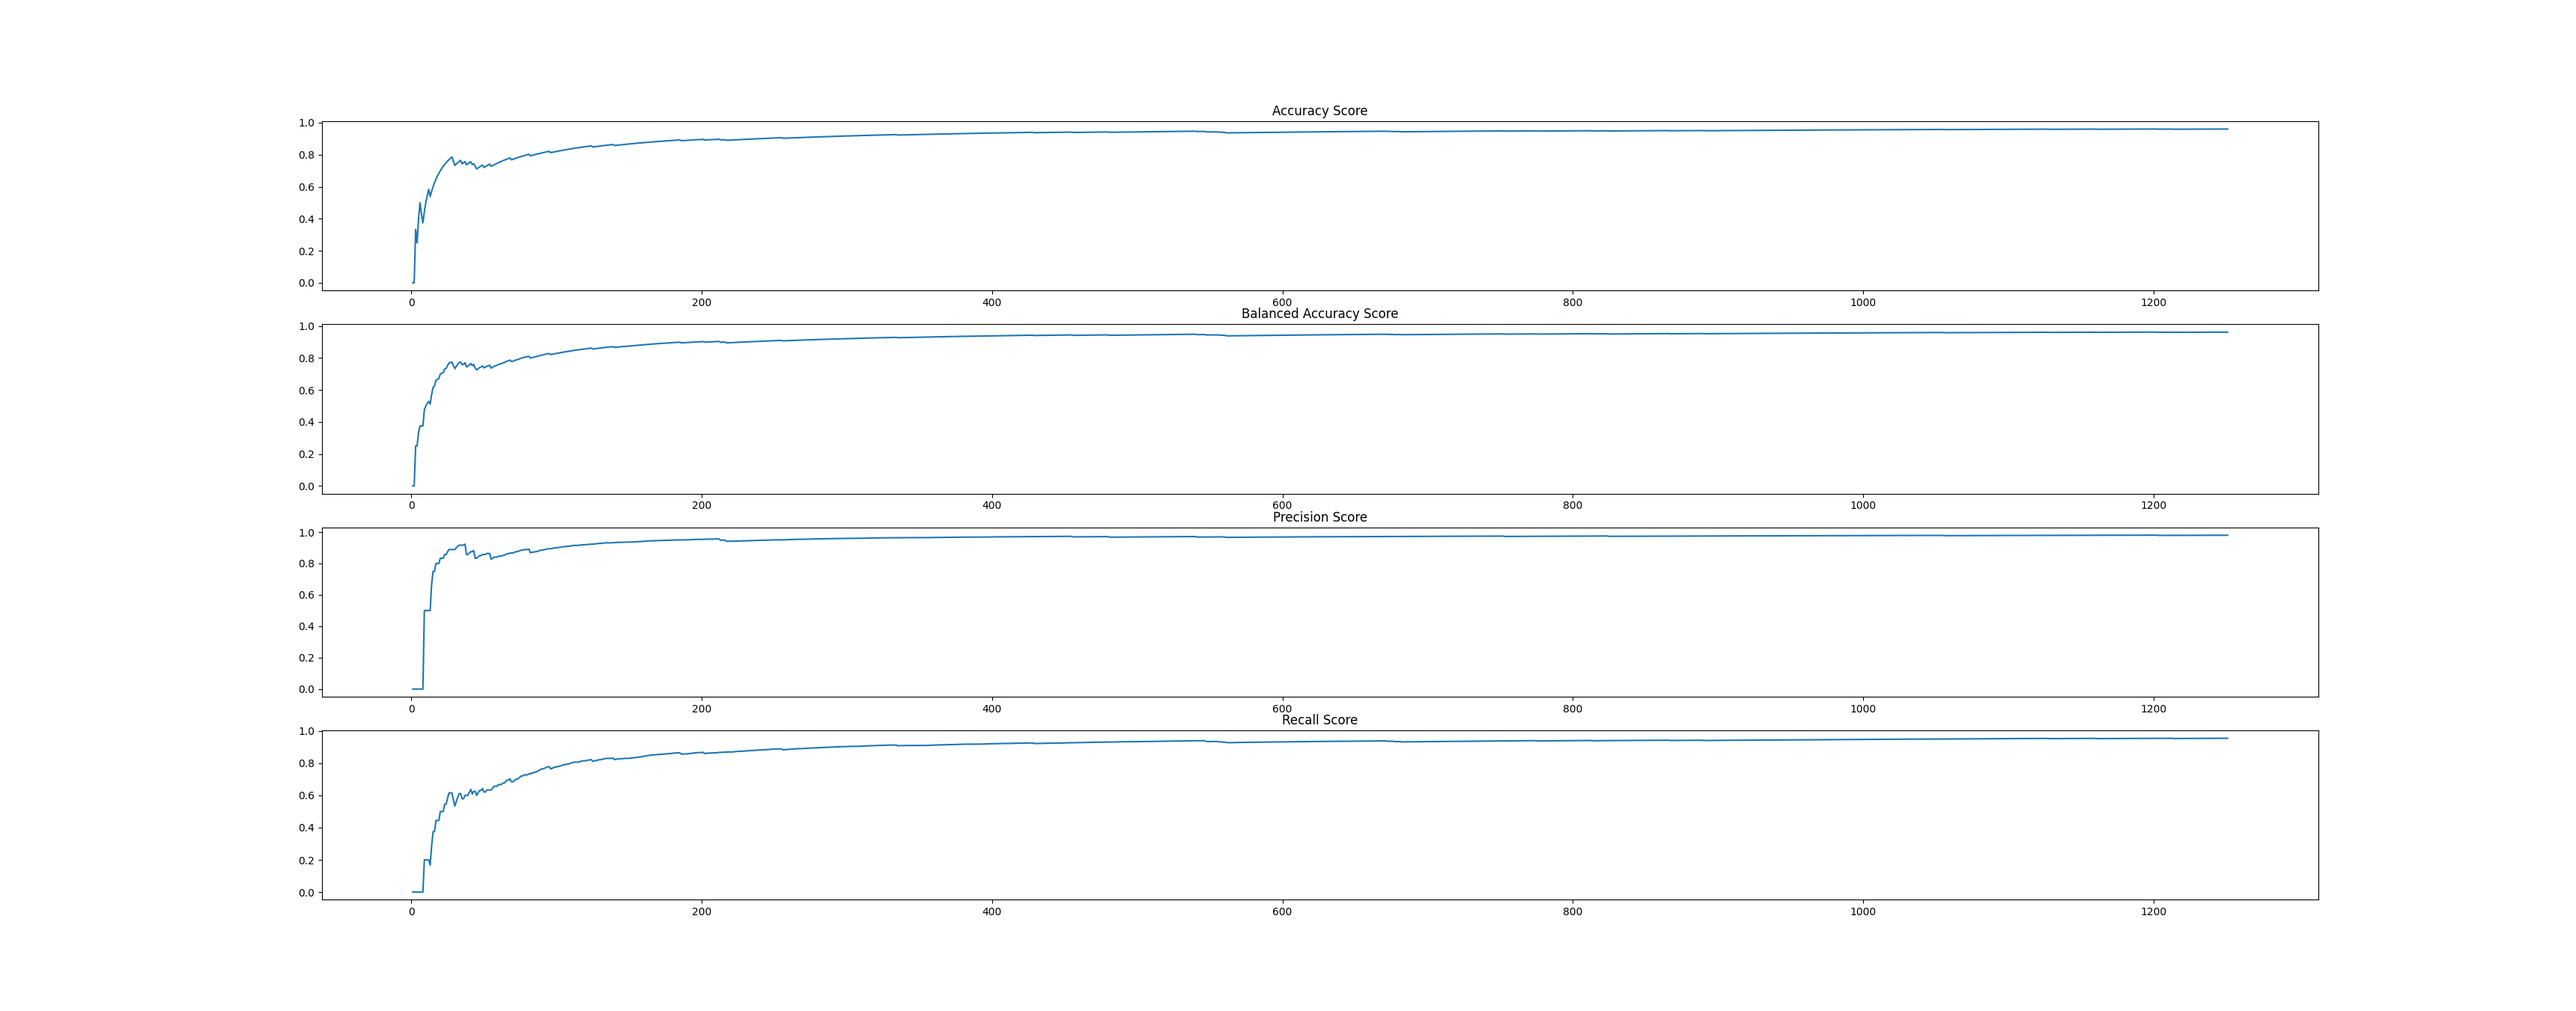
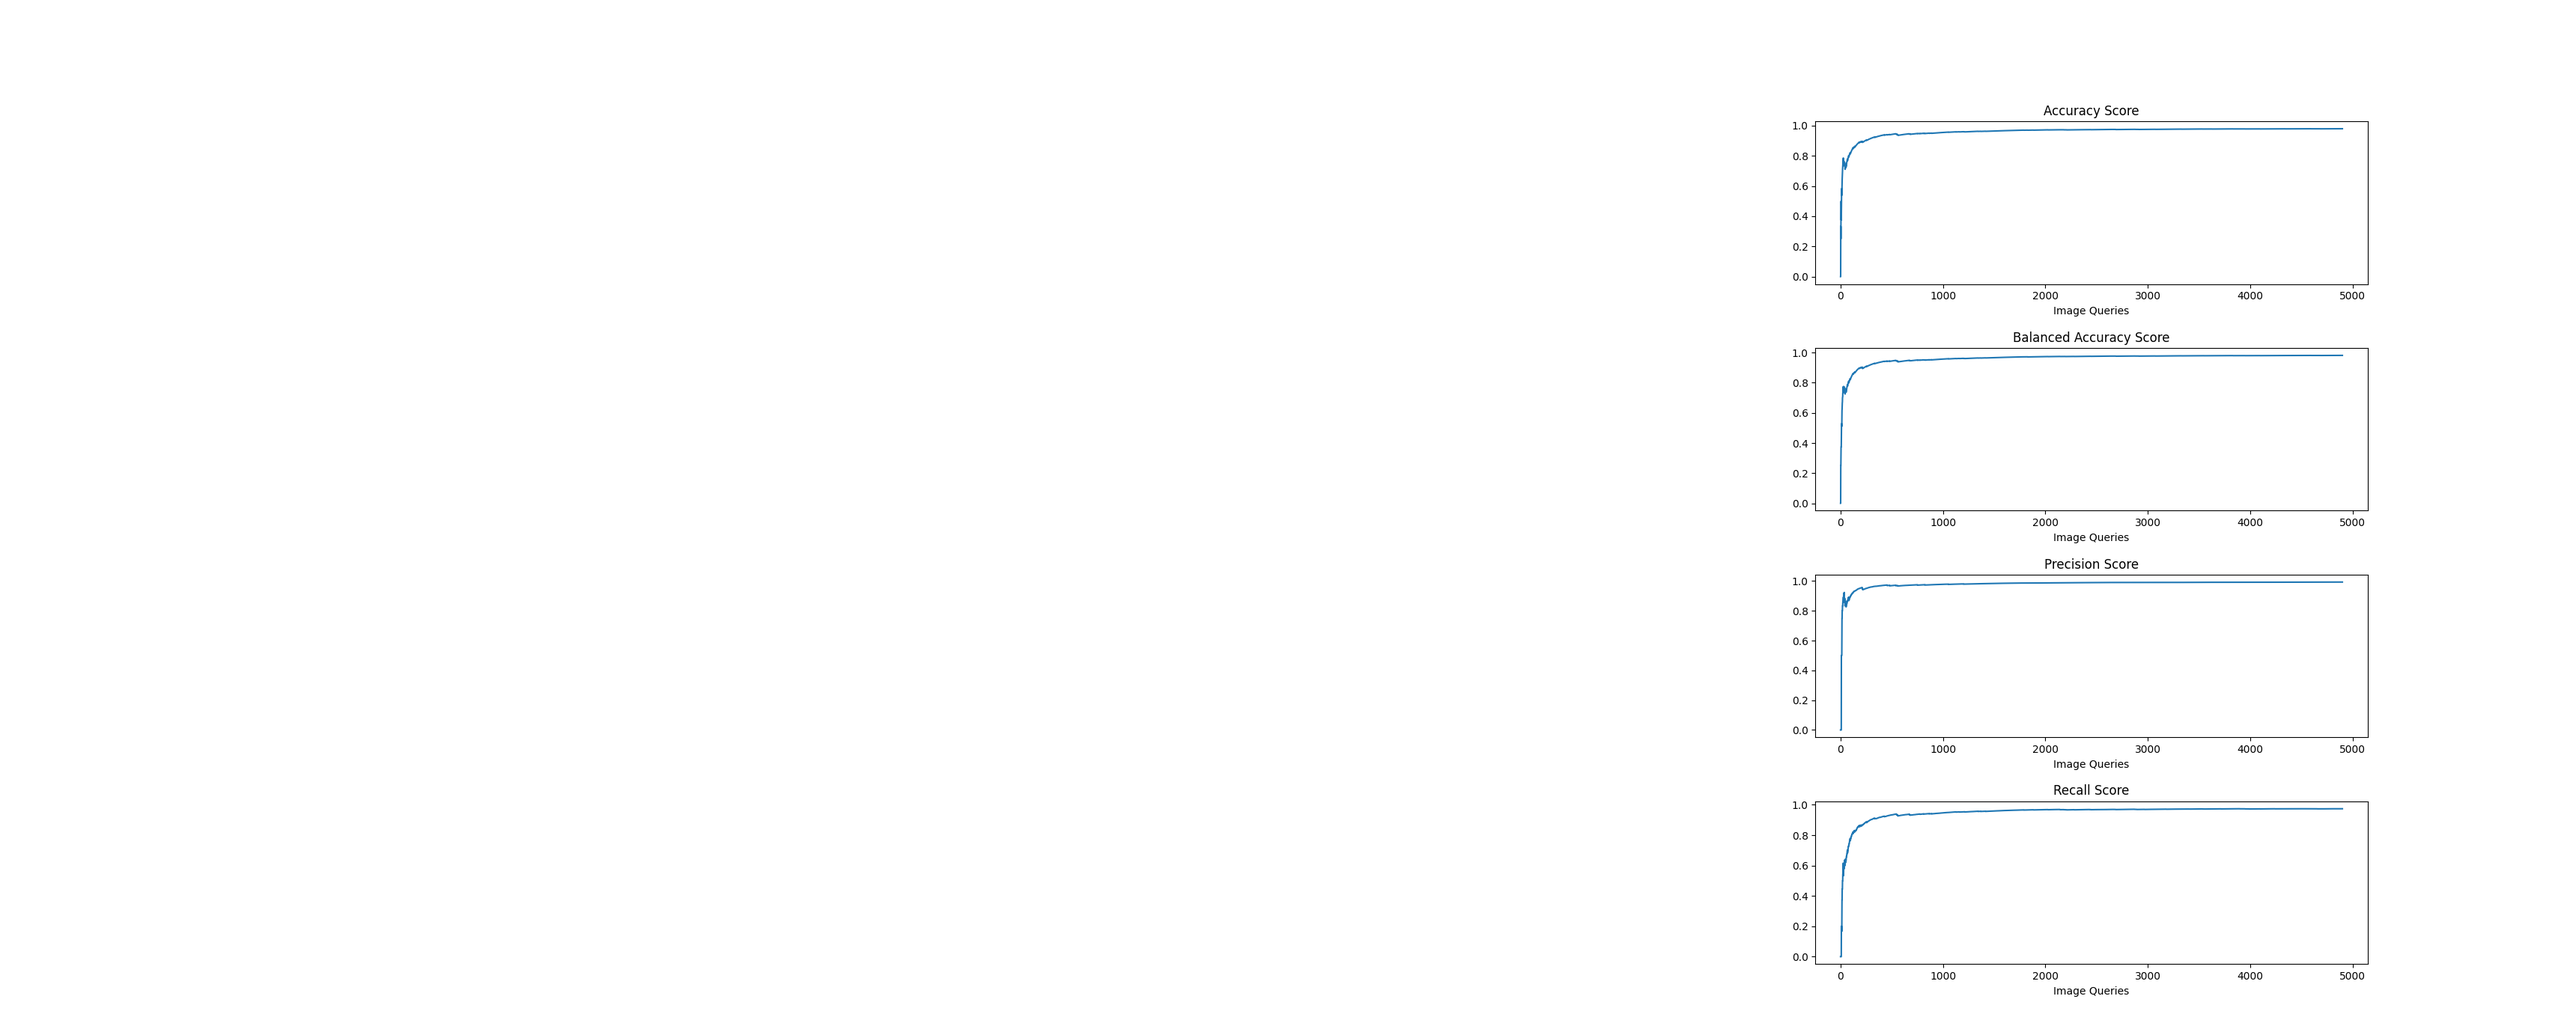
made data analysis figure pretty

diff --git a/data_analysis.py b/data_analysis.py
@@ -1,5 +1,4 @@
 import json
-import ipdb
 import sklearn.metrics as metrics
 import matplotlib.pyplot as plt
 
@@ -62,4 +61,9 @@ axs[2].plot(x, precision_score_results)
 axs[2].set_title("Precision Score")
 axs[3].plot(x, recall_score_results)
 axs[3].set_title("Recall Score")
+
+# set x axis title to be "Image Queries"
+for ax in axs.flat:
+    ax.set(xlabel="Image Queries")
+
 plt.show()
